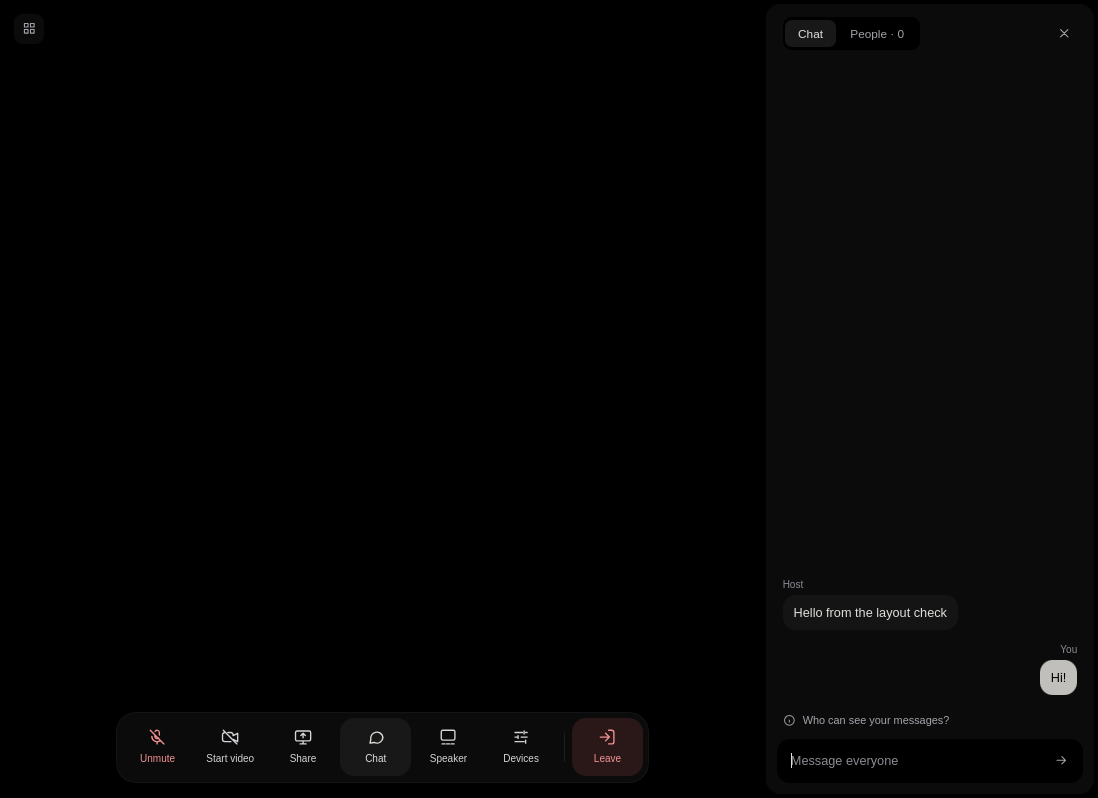
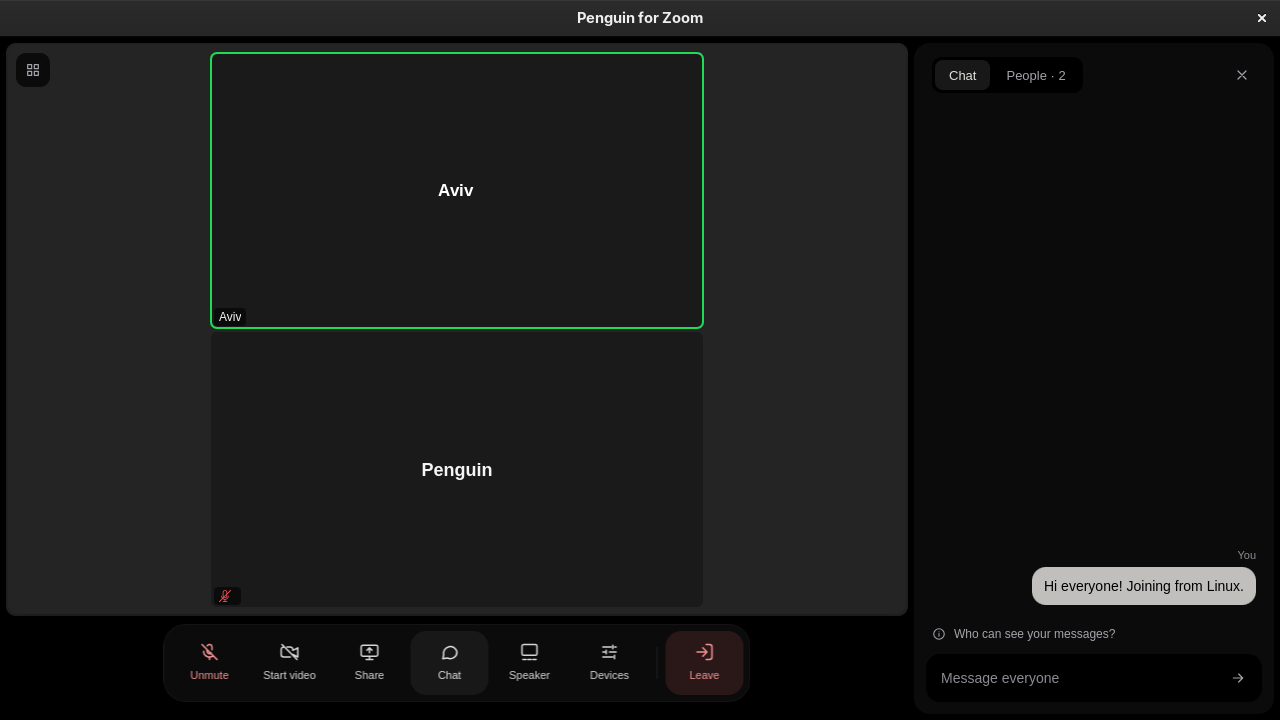
README: new screenshot (cameras off, no profile picture); guide URL on master
Claude-Session: https://claude.ai/code/session_01GisQBJrLQWGnduUBM2cVyw

diff --git a/README.md b/README.md
@@ -4,7 +4,7 @@
 
 **Zoom meetings in a light Linux window.**
 
-<img src="docs/screenshot.png" width="549" alt="The meeting window: the control bar with Unmute, Start video, Share, Chat, Speaker, Devices and Leave, and the chat panel open on the right">
+<img src="docs/screenshot.png" width="640" alt="A meeting with two participants, cameras off: the control bar with Unmute, Start video, Share, Chat, Speaker, Devices and Leave at the bottom, and the chat panel open on the right">
 
 Click a Zoom link and it opens in a small native window.<br>
 It tiles on Hyprland like any other window,<br>
@@ -21,7 +21,7 @@ Paste this into your AI coding agent (Claude Code, Codex, Cursor…):
 
 ```text
 Install Penguin for Zoom on this Arch Linux machine by following
-https://raw.githubusercontent.com/vaknin/penguin-zoom/main/AGENT-INSTALL.md
+https://raw.githubusercontent.com/vaknin/penguin-zoom/master/AGENT-INSTALL.md
 Ask me before any command that needs sudo.
 ```
 
